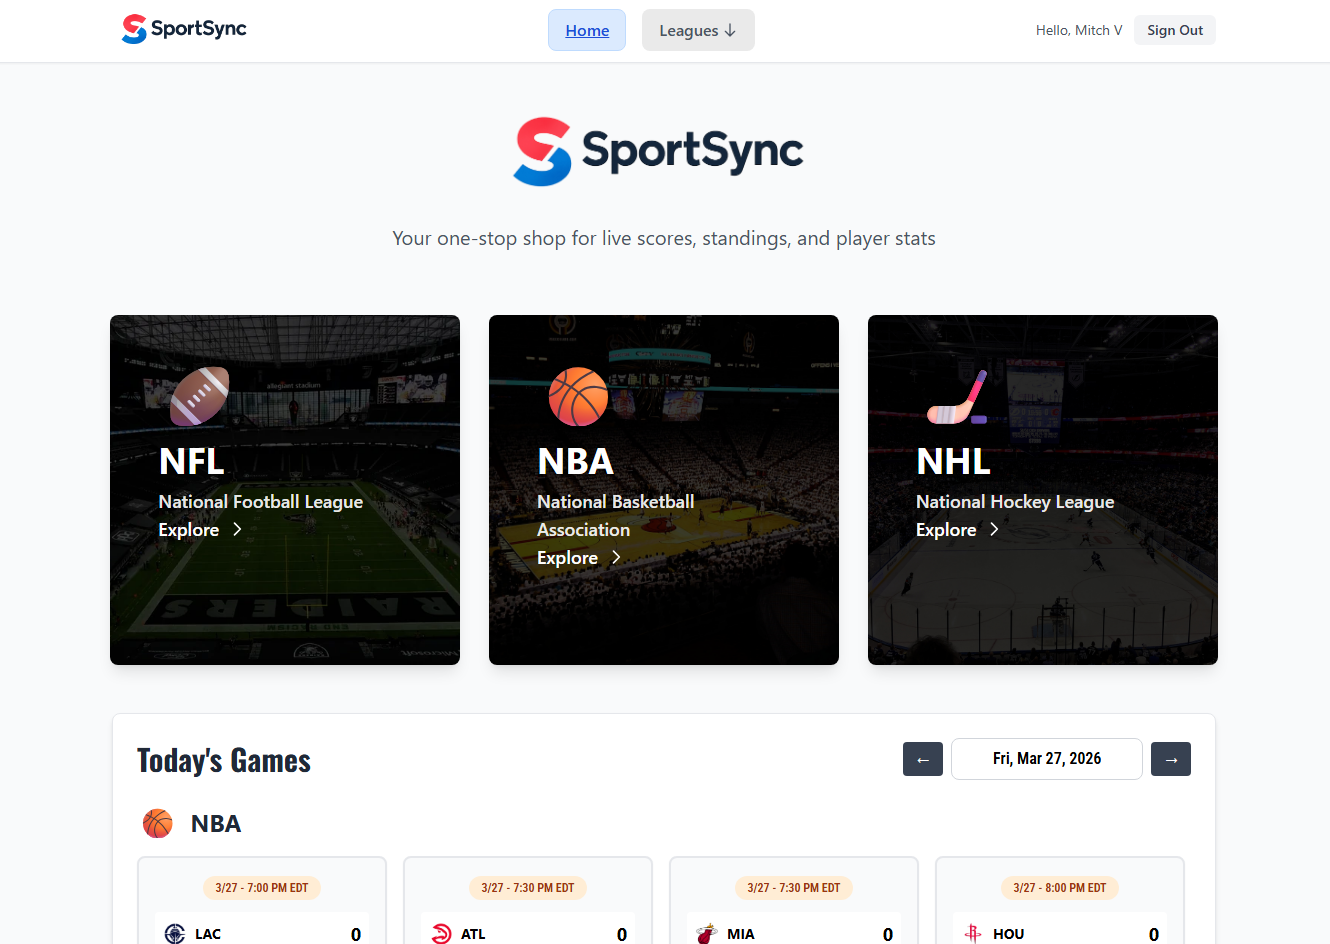
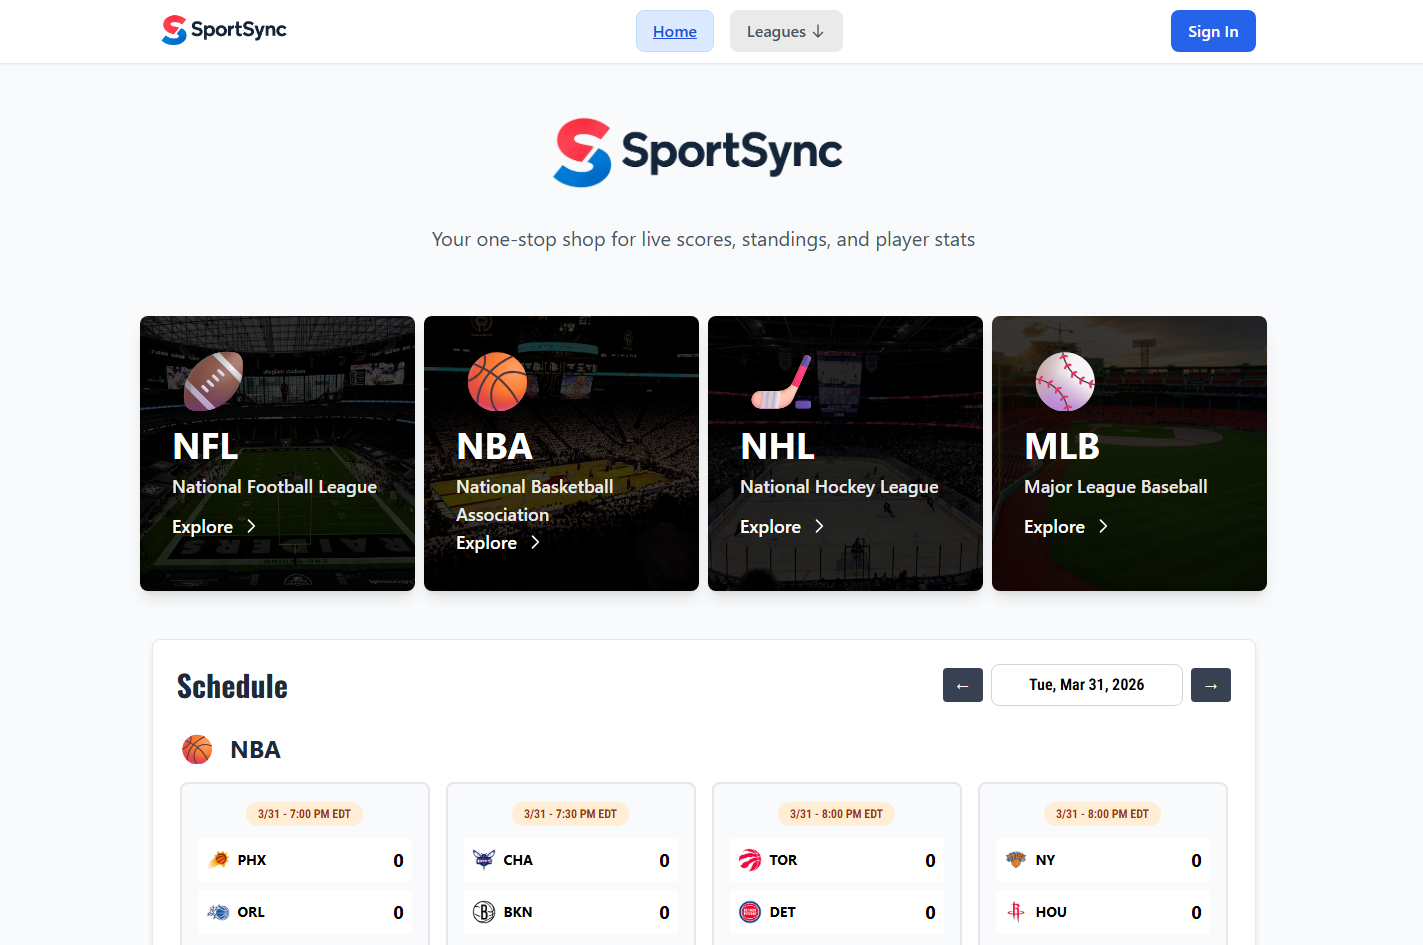
sportsync update

diff --git a/src/data.ts b/src/data.ts
@@ -11,8 +11,8 @@ export const projects = [
     id: 0,
     name: "SportSync",
     image: sportPic, // Replace with actual project image
-    short: "Web App for Sports enthusiasts to check current NFL/NHL/NBA games, player stats, news and playoff bracket creation",
-    details: "My first venture into AWS and my first Solo PostgreSQL project. A full-stack web app for sports enthusiasts to check current NFL/NHL/NBA games, player stats, news and playoff bracket creation. Features include live game updates, team statistics, news articles, and a leaderboard for user-generated playoff brackets.",
+    short: "Web App for Sports enthusiasts to check current games, player stats and news from the big 4 sports leagues",
+    details: "My first venture into AWS and my first Solo PostgreSQL project. A full-stack web app for sports enthusiasts to check current NFL/NHL/NBA/MLB games, player stats, news and playoff bracket creation. Features include live game updates, team statistics, news articles, and a leaderboard for user-generated playoff brackets.",
     stack: ["AWS", "PostgreSQL", "React", "TailwindCSS","Node.js", "Express", "Firebase", "CSS", "Python",],
     url: "https://www.sportsync.cc/",
   },
